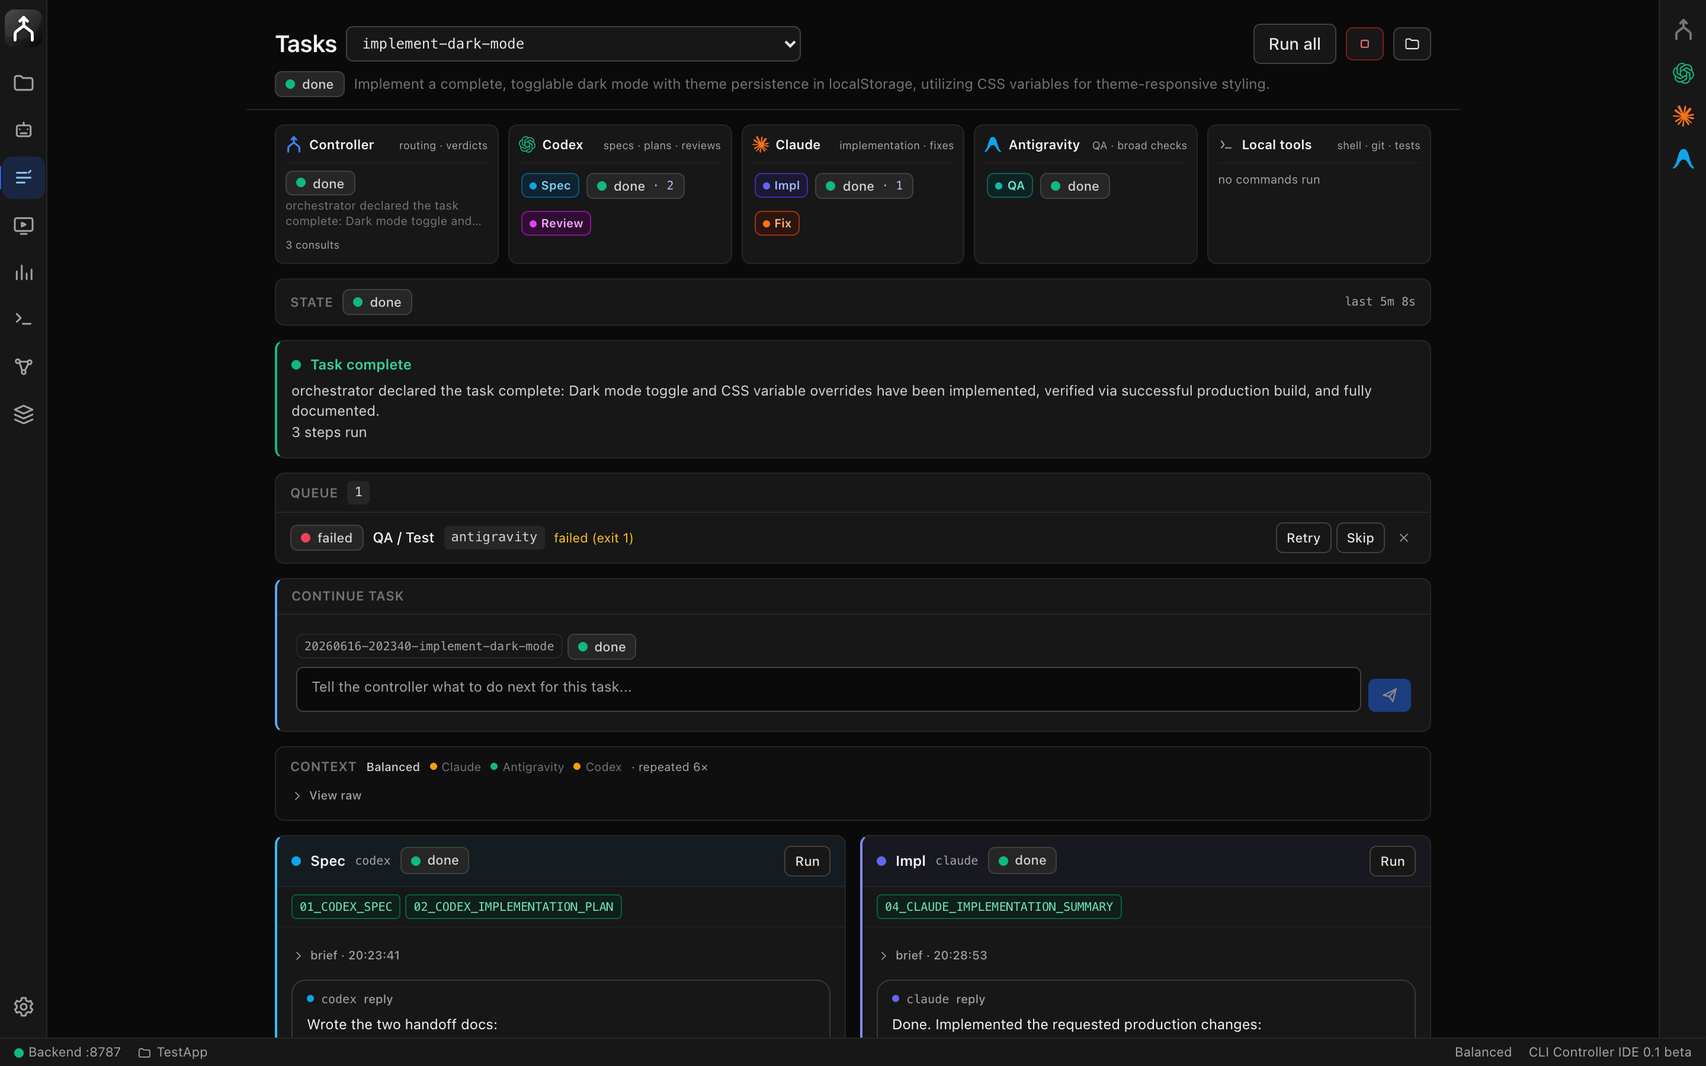
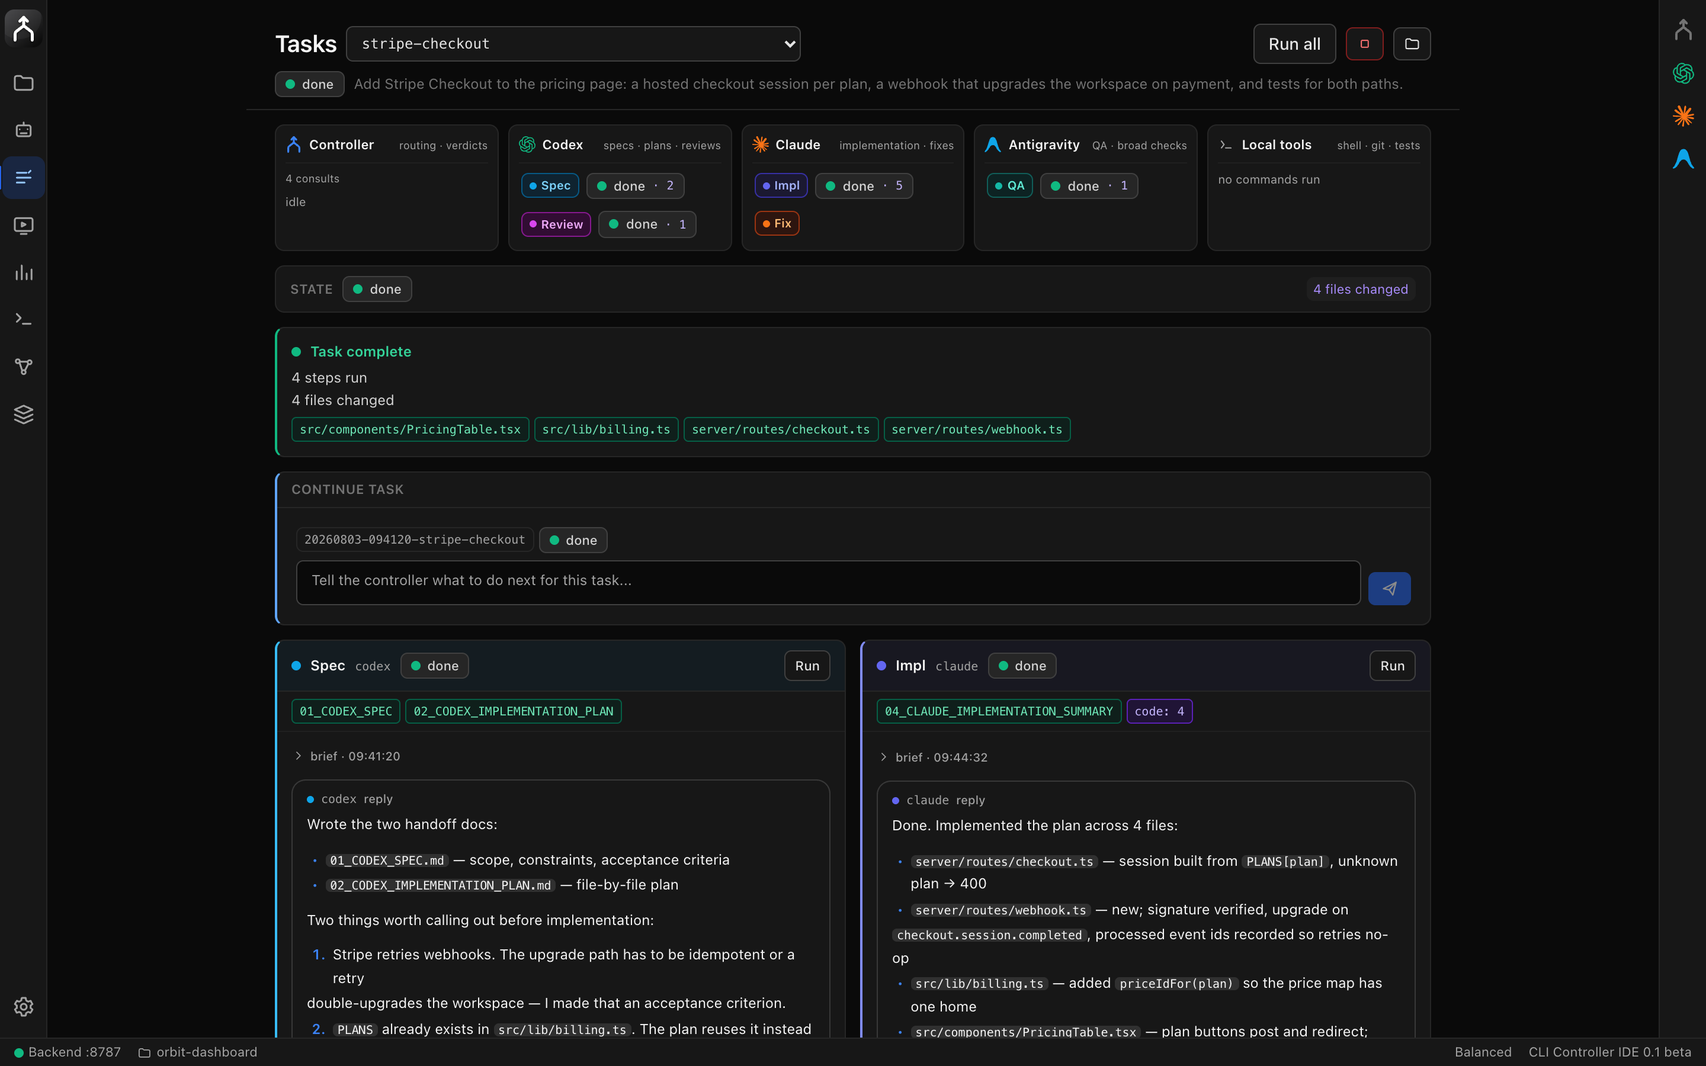
docs: stage a demo session for the README screenshots
The shots were pulled from a real scratch project, so they carried its
mess: half-finished tasks, a QA timeout, folder names from the old
branding. Replaced with a staged workspace (~/Demo/orbit-dashboard) built
by scripts/make-demo-workspace.py — it writes the same .agentflow
structures the app writes, so the UI renders real data, just curated.

The session is one feature carried end to end: "add stripe checkout to
the pricing page" -> Codex specs it and flags that Stripe retries
webhooks -> Claude implements across 4 files -> Antigravity runs the
suite and probes the failure paths -> Codex reviews. All three shots come
from that one story, so they read as one product rather than three tabs.

Usage stays a live reading from the installed CLIs; a footnote says the
project is a sample.

Also fixes a real bug found while pointing the app at a hand-written
config: ensure_workspace returned an existing config.json untouched, so
one missing workspacePath key made set_workspace raise KeyError and 500
the workspace switch. It now backfills the key. Regression test added.

diff --git a/scripts/make-demo-workspace.py b/scripts/make-demo-workspace.py
@@ -1,0 +1,310 @@
+#!/usr/bin/env python3
+"""Build a staged demo workspace for the README screenshots.
+
+Clones the *shape* of a real .agentflow task/chat (so every field the UI reads
+is present and correctly typed) and replaces the content with a curated demo
+narrative: one product feature carried end-to-end by three CLIs.
+"""
+import json
+import os
+import shutil
+from pathlib import Path
+
+DEMO = Path(os.path.expanduser("~/Demo/orbit-dashboard"))
+AF = DEMO / ".agentflow"
+TASK_ID = "20260803-094120-stripe-checkout"
+TASK = AF / "tasks" / TASK_ID
+LOGS = TASK / "logs"
+
+D = "2026-08-03"          # display date
+def t(hhmm, ss="00"):     # ISO timestamp (UTC); +4h so it renders as morning local time
+    h, m = hhmm.split(":")
+    return f"{D}T{int(h)+4:02d}:{m}:{ss}+00:00"
+
+for p in (LOGS,):
+    p.mkdir(parents=True, exist_ok=True)
+
+# --- a small, believable project so the tree and status bar read well --------
+(DEMO / "src" / "components").mkdir(parents=True, exist_ok=True)
+(DEMO / "src" / "lib").mkdir(parents=True, exist_ok=True)
+(DEMO / "server" / "routes").mkdir(parents=True, exist_ok=True)
+(DEMO / "package.json").write_text(json.dumps({
+    "name": "orbit-dashboard", "version": "2.4.1", "private": True,
+    "scripts": {"dev": "vite", "build": "vite build", "test": "vitest run"},
+}, indent=2) + "\n")
+(DEMO / "README.md").write_text("# Orbit Dashboard\n\nAnalytics for small teams.\n")
+(DEMO / "src" / "components" / "PricingTable.tsx").write_text("export function PricingTable() {\n  return null;\n}\n")
+(DEMO / "src" / "lib" / "billing.ts").write_text("export const PLANS = ['starter', 'team', 'scale'] as const;\n")
+(DEMO / "server" / "routes" / "checkout.ts").write_text("export async function createCheckoutSession() {}\n")
+
+# --- task.json ---------------------------------------------------------------
+task = {
+    "id": TASK_ID,
+    "title": "stripe-checkout",
+    "goal": "Add Stripe Checkout to the pricing page: a hosted checkout session per plan, "
+            "a webhook that upgrades the workspace on payment, and tests for both paths.",
+    "createdAt": t("09:41"),
+    "status": "done",
+    "steps": {
+        "codex_spec": {
+            "status": "succeeded", "provider": "codex", "runId": "a71f0c93be22",
+            "updatedAt": t("09:44", "18"), "exitCode": 0,
+            "artifactsWritten": ["01_CODEX_SPEC.md", "02_CODEX_IMPLEMENTATION_PLAN.md"],
+            "codeChanged": [],
+            "promptFile": f"{D.replace('-','')}-094120-codex_spec.prompt.txt",
+            "logFile": f"{D.replace('-','')}-094120-codex_spec.log",
+        },
+        "claude_implement": {
+            "status": "succeeded", "provider": "claude", "runId": "5c2e8d10a447",
+            "updatedAt": t("09:51", "36"), "exitCode": 0,
+            "artifactsWritten": ["04_CLAUDE_IMPLEMENTATION_SUMMARY.md"],
+            "codeChanged": [
+                "src/components/PricingTable.tsx",
+                "src/lib/billing.ts",
+                "server/routes/checkout.ts",
+                "server/routes/webhook.ts",
+            ],
+            "promptFile": f"{D.replace('-','')}-094432-claude_implement.prompt.txt",
+            "logFile": f"{D.replace('-','')}-094432-claude_implement.log",
+        },
+        "gemini_qa": {
+            "status": "succeeded", "provider": "antigravity", "runId": "9b4a17ee0c85",
+            "updatedAt": t("09:55", "02"), "exitCode": 0,
+            "artifactsWritten": ["05_QA_RESULTS.md"], "codeChanged": [],
+            "promptFile": f"{D.replace('-','')}-095136-gemini_qa.prompt.txt",
+            "logFile": f"{D.replace('-','')}-095136-gemini_qa.log",
+        },
+        "codex_review": {
+            "status": "succeeded", "provider": "codex", "runId": "3f8d55c1907b",
+            "updatedAt": t("09:57", "44"), "exitCode": 0,
+            "artifactsWritten": ["07_CODEX_FINAL_REVIEW.md"], "codeChanged": [],
+            "promptFile": f"{D.replace('-','')}-095502-codex_review.prompt.txt",
+            "logFile": f"{D.replace('-','')}-095502-codex_review.log",
+        },
+        "claude_fix": {"status": "idle", "provider": "claude"},
+    },
+    "fullSequence": {"status": "idle", "currentStep": None},
+    "orchestrated": True,
+    "consults": 4,
+    "orchestratorVerdict": {
+        "verdict": "done",
+        "reason": "Checkout session and webhook are implemented behind the existing plan config, "
+                  "QA passed 18 tests including both webhook paths, and final review found no blocking issues.",
+        "at": t("09:57", "51"),
+    },
+    "events": [
+        {"time": t("09:41"), "type": "task_created", "step": None, "provider": None,
+         "detail": f"task created — handoff files written to .agentflow/tasks/{TASK_ID}/ (9 files)"},
+        {"time": t("09:41", "02"), "type": "queued", "step": None, "provider": None,
+         "detail": "orchestrator queued 1 step(s): Write Spec→codex — the system will cue each agent in order"},
+        {"time": t("09:41", "20"), "type": "step_started", "step": "codex_spec", "provider": "codex",
+         "detail": "orchestrator routed Write Spec → codex (sent 812 chars; reads: 00_USER_GOAL.md)"},
+        {"time": t("09:44", "18"), "type": "step_finished", "step": "codex_spec", "provider": "codex",
+         "detail": "codex finished Write Spec: succeeded (exit 0, 178.2s, 1,204 chars out), "
+                   "wrote 01_CODEX_SPEC.md, 02_CODEX_IMPLEMENTATION_PLAN.md"},
+        {"time": t("09:44", "30"), "type": "queued", "step": None, "provider": None,
+         "detail": "orchestrator queued 1 step(s): Implement→claude — the system will cue each agent in order"},
+        {"time": t("09:44", "32"), "type": "step_started", "step": "claude_implement", "provider": "claude",
+         "detail": "orchestrator routed Implement → claude (sent 1,940 chars; reads: 01_CODEX_SPEC.md, 02_CODEX_IMPLEMENTATION_PLAN.md)"},
+        {"time": t("09:51", "36"), "type": "step_finished", "step": "claude_implement", "provider": "claude",
+         "detail": "claude finished Implement: succeeded (exit 0, 424.1s, 2,860 chars out), "
+                   "wrote 04_CLAUDE_IMPLEMENTATION_SUMMARY.md · 4 files changed"},
+        {"time": t("09:51", "36"), "type": "queued", "step": None, "provider": None,
+         "detail": "orchestrator queued 1 step(s): QA / Test→antigravity — the system will cue each agent in order"},
+        {"time": t("09:51", "40"), "type": "command", "step": None, "provider": "antigravity",
+         "detail": "orchestrator ran `npm test` → succeeded (exit 0)"},
+        {"time": t("09:55", "02"), "type": "step_finished", "step": "gemini_qa", "provider": "antigravity",
+         "detail": "antigravity finished QA / Test: succeeded (exit 0, 206.4s, 918 chars out), wrote 05_QA_RESULTS.md"},
+        {"time": t("09:55", "02"), "type": "queued", "step": None, "provider": None,
+         "detail": "orchestrator queued 1 step(s): Final Review→codex — the system will cue each agent in order"},
+        {"time": t("09:57", "44"), "type": "step_finished", "step": "codex_review", "provider": "codex",
+         "detail": "codex finished Final Review: succeeded (exit 0, 162.0s, 640 chars out), wrote 07_CODEX_FINAL_REVIEW.md"},
+        {"time": t("09:57", "51"), "type": "final_report", "step": None, "provider": "claude",
+         "detail": "controller declared the task complete: checkout session and webhook implemented, "
+                   "18 tests passing, final review clean"},
+    ],
+}
+(TASK / "task.json").write_text(json.dumps(task, indent=2) + "\n")
+
+# --- handoff artifacts -------------------------------------------------------
+ART = {
+    "00_USER_GOAL.md": f"# Goal\n\n{task['goal']}\n",
+    "01_CODEX_SPEC.md": """# Spec — Stripe Checkout
+
+## Scope
+- One hosted Checkout session per plan in `PLANS` (starter, team, scale).
+- `POST /api/checkout` returns the session URL; the client redirects.
+- `POST /api/stripe/webhook` upgrades the workspace on `checkout.session.completed`.
+
+## Constraints
+- Reuse the existing `PLANS` config in `src/lib/billing.ts` — do not introduce a
+  second source of truth for pricing.
+- The webhook must be idempotent: Stripe retries, and a replayed event must not
+  double-upgrade a workspace.
+- Secret key stays server-side; the client only ever sees the session URL.
+
+## Acceptance
+- A test for each plan producing a session.
+- A test asserting a replayed webhook event is a no-op.
+""",
+    "02_CODEX_IMPLEMENTATION_PLAN.md": """# Implementation Plan
+
+1. `server/routes/checkout.ts` — build the session from `PLANS[plan]`, 400 on unknown plan.
+2. `server/routes/webhook.ts` — verify the signature, then upgrade on
+   `checkout.session.completed`; store the event id and skip ids already seen.
+3. `src/components/PricingTable.tsx` — plan buttons POST to `/api/checkout`, redirect on 200,
+   surface the error inline on failure.
+4. Tests alongside each route.
+
+No pricing values in the components — read them from `PLANS`.
+""",
+    "04_CLAUDE_IMPLEMENTATION_SUMMARY.md": """# Implementation Summary
+
+- **server/routes/checkout.ts** — creates the session from `PLANS[plan]`; unknown plan → 400.
+- **server/routes/webhook.ts** — new; verifies the signature and upgrades the workspace on
+  `checkout.session.completed`. Processed event ids are recorded, so a Stripe retry is a no-op.
+- **src/lib/billing.ts** — added `priceIdFor(plan)` so the price map has one home.
+- **src/components/PricingTable.tsx** — each plan button posts to `/api/checkout` and redirects;
+  failures render inline instead of throwing.
+
+Followed the spec's idempotency requirement rather than assuming Stripe delivers once.
+""",
+    "05_QA_RESULTS.md": """# QA Results
+
+`npm test` → **18 passed**, 0 failed.
+
+Checked beyond the suite:
+- Unknown plan returns 400, not a 500.
+- Replayed `checkout.session.completed` leaves the workspace tier unchanged.
+- No secret key reaches the client bundle (`grep` over `dist/`).
+
+No blocking issues.
+""",
+    "07_CODEX_FINAL_REVIEW.md": """# Final Review
+
+Implementation matches the spec. Idempotency is handled where it belongs — in the
+webhook, keyed on the event id — and pricing stayed in `PLANS`.
+
+Optional, not blocking:
+- Consider a typed error for the 400 path so the client can distinguish it.
+
+**Verdict: ship it.**
+""",
+    "03_CLAUDE_PROMPT.md": "See logs/ for the exact prompt sent to claude.\n",
+    "06_BUGS_FOR_CLAUDE.md": "# Bugs for Claude\n\nNone — QA passed with no blocking issues.\n",
+    "ROUTING_DECISIONS.md": """# Routing Decisions
+
+| Step | Agent | Why |
+| --- | --- | --- |
+| Write Spec | codex | Planning and product judgment. |
+| Implement | claude | Implementation and fixes. |
+| QA / Test | antigravity | Tool-running and broad checks. |
+| Final Review | codex | Review is a spec-side judgment call. |
+""",
+}
+for name, body in ART.items():
+    (TASK / name).write_text(body)
+
+# --- run logs (the UI shows the STDOUT section as the step's reply) ----------
+def log(cmd: str, stdout: str) -> str:
+    return (f"# Command Line Interface Controller run\n# command: {cmd}\n\n"
+            f"--- STDOUT ---\n{stdout}\n\n--- STDERR ---\n")
+
+REPLIES = {
+    "094120-codex_spec": ("codex exec --model gpt-5.6-sol", """Wrote the two handoff docs:
+
+- `01_CODEX_SPEC.md` — scope, constraints, acceptance criteria
+- `02_CODEX_IMPLEMENTATION_PLAN.md` — file-by-file plan
+
+Two things worth calling out before implementation:
+
+1. Stripe retries webhooks. The upgrade path has to be idempotent or a retry
+   double-upgrades the workspace — I made that an acceptance criterion.
+2. `PLANS` already exists in `src/lib/billing.ts`. The plan reuses it instead of
+   adding a second price map, which is where this usually rots.
+
+No production code touched."""),
+    "094432-claude_implement": ("claude -p --permission-mode acceptEdits --model claude-opus-5", """Done. Implemented the plan across 4 files:
+
+- `server/routes/checkout.ts` — session built from `PLANS[plan]`, unknown plan → 400
+- `server/routes/webhook.ts` — new; signature verified, upgrade on
+  `checkout.session.completed`, processed event ids recorded so retries no-op
+- `src/lib/billing.ts` — added `priceIdFor(plan)` so the price map has one home
+- `src/components/PricingTable.tsx` — plan buttons post and redirect; errors render inline
+
+Tests added next to both routes, including the replayed-event case the spec asked for."""),
+    "095136-gemini_qa": ("agy --sandbox -p", """`npm test` → 18 passed, 0 failed.
+
+Checked three things the suite doesn't:
+- unknown plan returns 400, not a 500
+- a replayed `checkout.session.completed` leaves the tier unchanged
+- no secret key in the built client bundle
+
+No blocking issues. Wrote `05_QA_RESULTS.md`."""),
+    "095502-codex_review": ("codex exec --model gpt-5.6-sol", """Reviewed the diff against the spec.
+
+Idempotency is handled in the webhook keyed on event id — the right place — and
+pricing stayed in `PLANS`. Implementation matches the plan.
+
+One optional follow-up: a typed error for the 400 path so the client can tell it
+apart from a network failure. Not blocking.
+
+Verdict: ship it."""),
+}
+for stem, (cmd, out) in REPLIES.items():
+    (LOGS / f"{D.replace('-','')}-{stem}.log").write_text(log(cmd, out))
+    (LOGS / f"{D.replace('-','')}-{stem}.prompt.txt").write_text(f"(prompt for {stem})\n")
+
+# --- queue -------------------------------------------------------------------
+def q(qid, step, label, provider, start, end):
+    return {"id": qid, "taskId": TASK_ID, "step": step, "label": label, "provider": provider,
+            "status": "done", "source": "orchestrator", "enqueuedAt": t(start), "note": None,
+            "runId": qid + "aa11", "attempt": 1, "providerOverride": None,
+            "startedAt": t(start), "finishedAt": t(end)}
+(AF / "queue.json").write_text(json.dumps({"items": [
+    q("7c1a44f0", "codex_spec", "Write Spec", "codex", "09:41", "09:44"),
+    q("2e90bb31", "claude_implement", "Implement", "claude", "09:44", "09:51"),
+    q("d5f31a08", "gemini_qa", "QA / Test", "antigravity", "09:51", "09:55"),
+    q("91be6c27", "codex_review", "Final Review", "codex", "09:55", "09:57"),
+]}, indent=2) + "\n")
+
+# --- controller conversation -------------------------------------------------
+messages = [
+    {"role": "user", "content": "add stripe checkout to the pricing page", "time": t("09:40", "44")},
+    {"role": "assistant", "provider": "claude", "durationMs": 11240, "time": t("09:41"),
+     "content": "Queuing it as one task, routing each step to whichever CLI is best at it.\n\n"
+                "| Step | Agent | Target |\n| :--- | :--- | :--- |\n"
+                "| `codex_spec` | Codex | Scope, constraints, acceptance criteria |\n"
+                "| `claude_implement` | Claude | Checkout route, webhook, pricing buttons |\n"
+                "| `gemini_qa` | Antigravity | Run the suite and probe the failure paths |\n"
+                "| `codex_review` | Codex | Final review against the spec |\n\n"
+                "```agentflow-task\ntitle: stripe-checkout\n"
+                "goal: Add Stripe Checkout to the pricing page: a hosted checkout session per plan, "
+                "a webhook that upgrades the workspace on payment, and tests for both paths.\n"
+                "queue: codex_spec\n```"},
+    {"role": "system", "provider": "claude", "time": t("09:41", "02"),
+     "content": "Created “stripe-checkout” · queued codex_spec"},
+    {"role": "system", "provider": "codex", "time": t("09:44", "18"),
+     "content": "codex finished Write Spec: succeeded (exit 0, 178.2s) — wrote 01_CODEX_SPEC.md, 02_CODEX_IMPLEMENTATION_PLAN.md"},
+    {"role": "system", "provider": "claude", "time": t("09:51", "36"),
+     "content": "claude finished Implement: succeeded (exit 0, 424.1s) · 4 files changed"},
+    {"role": "system", "provider": "antigravity", "time": t("09:55", "02"),
+     "content": "antigravity finished QA / Test: succeeded (exit 0, 206.4s) — 18 passed, 0 failed"},
+    {"role": "system", "provider": "codex", "time": t("09:57", "44"),
+     "content": "codex finished Final Review: succeeded (exit 0, 162.0s) — verdict: ship it"},
+    {"role": "assistant", "provider": "claude", "durationMs": 9130, "time": t("09:57", "51"),
+     "content": "**Task complete.** Checkout and the webhook are in, 18 tests pass, review came back clean.\n\n"
+                "One optional follow-up it flagged: a typed error for the 400 path so the client can tell it "
+                "apart from a network failure. Want that queued?"},
+]
+(AF / "chat.json").write_text(json.dumps(
+    {"messages": messages, "updatedAt": t("09:57", "51"), "channels": {}}, indent=2) + "\n")
+
+(AF / "config.json").write_text(json.dumps({
+    "routing": {"orchestrator": "claude", "pm": "codex", "engineer": "claude", "qa": "antigravity"},
+}, indent=2) + "\n")
+(AF / ".gitignore").write_text("*\n")
+(AF / "usage.json").write_text(json.dumps({"localSteps": 26, "expensiveCallsAvoided": 9}, indent=2) + "\n")
+
+print("demo workspace:", DEMO)
+print("task:", TASK_ID, "| messages:", len(messages))

diff --git a/backend/tests/test_hardening.py b/backend/tests/test_hardening.py
@@ -33,3 +33,20 @@ def test_git_file_diff_shows_normal_untracked_file(tmp_path):
     (tmp_path / "notes.txt").write_text("hello world\n")
     res = asyncio.run(git_service.file_diff(tmp_path, "notes.txt", staged=False))
     assert "hello world" in res["diff"]
+
+
+def test_ensure_workspace_backfills_missing_workspace_path(tmp_path):
+    # A config.json written before workspacePath existed (or hand-edited) must be
+    # healed, not returned as-is — set_workspace reads cfg["workspacePath"] and
+    # would otherwise raise KeyError and 500 the workspace switch.
+    from agentflow import config, paths
+
+    config.ensure_workspace(tmp_path)
+    cfg_file = paths.workspace_config_file(tmp_path)
+    config.write_json(cfg_file, {"routing": {"engineer": "claude"}})  # no workspacePath
+
+    cfg = config.ensure_workspace(tmp_path)
+
+    assert cfg["workspacePath"] == str(tmp_path.resolve())
+    assert config.read_json(cfg_file, {})["workspacePath"] == str(tmp_path.resolve())
+    assert cfg["routing"] == {"engineer": "claude"}  # untouched

diff --git a/backend/agentflow/config.py b/backend/agentflow/config.py
@@ -184,6 +184,11 @@ def ensure_workspace(workspace: Path) -> dict:
             "routing": dict(load_global_config()["routing"]),
         }
         write_json(cfg_file, cfg)
+    elif not cfg.get("workspacePath"):
+        # A config written before workspacePath existed (or hand-edited) would
+        # otherwise 500 every caller that reads cfg["workspacePath"]. Heal it.
+        cfg["workspacePath"] = str(workspace)
+        write_json(cfg_file, cfg)
 
     # usage.json is created by usage_service on first access; do it here too so
     # selecting a workspace immediately materializes all expected files.

diff --git a/README.md b/README.md
@@ -19,17 +19,18 @@ commit. No API keys, no cloud, no eight terminal tabs.
 ## Ask once. It plans the work and cues the agents.
 
 Describe what you want in plain language. The controller decides which steps are
-needed, which CLI is best for each one, and queues them — you approve, you don't
+needed, which CLI is best at each one, and queues them — you approve, you don't
 micromanage.
 
 <p align="center">
-  <img src="docs/assets/controller-chat.png" alt="Controller chat turning a one-line request into a planned, queued task" width="620">
+  <img src="docs/assets/controller-chat.png" alt="Controller chat turning one sentence into a planned, queued, completed task" width="700">
 </p>
 
-One sentence in ("create .md files for next steps in a future features doc") and
-you get a plan back: which step, which agent, what it will touch — then the task
-is created and queued. Every provider has its own tab in the same dock, plus a
-real terminal if you'd rather drive it yourself.
+Seven words in — *add stripe checkout to the pricing page* — and you get a plan
+back: spec to Codex, implementation to Claude, QA to Antigravity, final review
+to Codex. Then it runs, and each agent reports in as it finishes. Every provider
+also has its own tab in that dock, plus a real terminal if you'd rather drive it
+yourself.
 
 ## Watch the whole task, agent by agent.
 
@@ -37,10 +38,12 @@ real terminal if you'd rather drive it yourself.
   <img src="docs/assets/tasks.png" alt="Tasks workbench showing Codex, Claude, and Antigravity lanes on one task" width="900">
 </p>
 
-One dark-mode feature, **three steps across three CLIs**: Codex wrote the spec
-and the implementation plan, Claude wrote the code, Antigravity ran QA — and
-each one's output, artifacts, and exact prompt are one click away. A
-step that fails doesn't lose the task: it sits in the queue with **Retry** and
+The same task, opened up: **four steps across three CLIs**, four files changed,
+and every step's artifacts, reply, and exact prompt one click away. Codex's spec
+flagged that Stripe retries webhooks, so the plan made idempotency an acceptance
+criterion — and Antigravity's QA checked exactly that before the review passed.
+
+A step that fails doesn't lose the task: it sits in the queue with **Retry** and
 **Skip**, and you can tell the controller what to do next without starting over.
 
 **What that saves you:** you stop copy-pasting context between three terminals,
@@ -62,6 +65,9 @@ of stopping.
 On top of that, two token-saving layers run by default: **Headroom** compresses
 bulky machine context inside prompts before they're sent, and **Ponytail** keeps
 agent output to the smallest thing that works.
+
+<sub>Screenshots show the real UI against a sample project. Provider health and
+quota are live readings from the CLIs.</sub>
 
 ---
 
